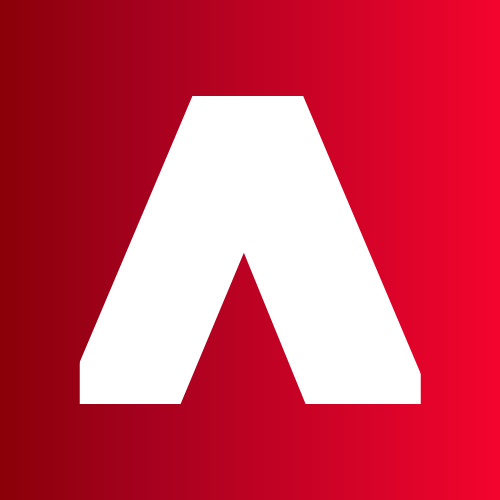
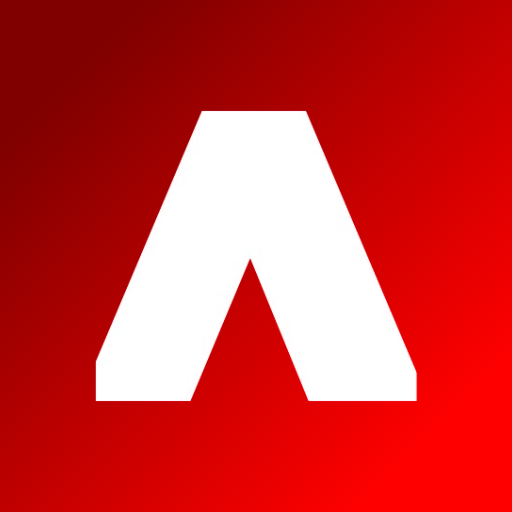
- melhorado maps em classes - melhorado ícone por plataforma

diff --git a/lib/data/model/show.dart b/lib/data/model/show.dart
@@ -71,14 +71,14 @@ class Show {
   // Transforma o status da série para um enum
   // com valores em português
   StatusEnum getStatusEnum() {
-    switch (status) {
-      case 'Running':
+    switch (status.toLowerCase()) {
+      case 'running':
         return StatusEnum.emExibicao;
-      case 'Ended':
+      case 'ended':
         return StatusEnum.finalizada;
-      case 'To Be Determined':
-        return StatusEnum.emExibicao;
-      case 'In Development':
+      case 'to be determined':
+        return StatusEnum.tba;
+      case 'in development':
         return StatusEnum.emDesenvolvimento;
       default:
         return StatusEnum.desconhecido;
@@ -91,6 +91,8 @@ class Show {
         return AppColors.green;
       case StatusEnum.finalizada:
         return AppColors.grey;
+      case StatusEnum.tba:
+        return AppColors.orange;
       case StatusEnum.emDesenvolvimento:
         return AppColors.orange;
       default:
@@ -103,6 +105,7 @@ enum StatusEnum {
   emExibicao('Em Exibição'),
   finalizada('Finalizada'),
   emDesenvolvimento('Em Desenvolvimento'),
+  tba('A ser anunciado'),
   desconhecido('Desconhecido');
 
   final String value;

diff --git a/lib/data/model/schedule.dart b/lib/data/model/schedule.dart
@@ -21,7 +21,7 @@ class Schedule {
 
   Map<String, dynamic> toJson() => _$ScheduleToJson(this);
 
-  // examplo: 21:00 | Segunda-feira, Terça-feira
+  // exemplo: 21:00 | Segunda-feira, Terça-feira
   @override
   String toString() {
     return time != '' && days != null
@@ -36,20 +36,20 @@ class Schedule {
   }
 
   String fromEnglish(String day) {
-    switch (day) {
-      case 'Monday':
+    switch (day.toLowerCase()) {
+      case 'monday':
         return DayOfWeek.monday.value;
-      case 'Tuesday':
+      case 'tuesday':
         return DayOfWeek.tuesday.value;
-      case 'Wednesday':
+      case 'wednesday':
         return DayOfWeek.wednesday.value;
-      case 'Thursday':
+      case 'thursday':
         return DayOfWeek.thursday.value;
-      case 'Friday':
+      case 'friday':
         return DayOfWeek.friday.value;
-      case 'Saturday':
+      case 'saturday':
         return DayOfWeek.saturday.value;
-      case 'Sunday':
+      case 'sunday':
         return DayOfWeek.sunday.value;
       default:
         return '';

diff --git a/lib/ui/pages/details/details_page.dart b/lib/ui/pages/details/details_page.dart
@@ -33,7 +33,7 @@ class DetailsPage extends StatelessWidget {
               loading: () => const Center(
                 child: CircularProgressIndicator(),
               ),
-              success: () => DetailsLayout(show: state.show!),
+              success: () => DetailsPresentation(show: state.show!),
               failure: () => const Center(
                 child: Text('Erro ao carregar informações'),
               ),
@@ -45,9 +45,9 @@ class DetailsPage extends StatelessWidget {
   }
 }
 
-class DetailsLayout extends StatelessWidget {
+class DetailsPresentation extends StatelessWidget {
   final Show show;
-  const DetailsLayout({super.key, required this.show});
+  const DetailsPresentation({super.key, required this.show});
 
   @override
   Widget build(BuildContext context) {

diff --git a/lib/ui/pages/home/home_page.dart b/lib/ui/pages/home/home_page.dart
@@ -31,7 +31,7 @@ class HomePage extends StatelessWidget {
                   AddShowButton(),
                   SizedBox(height: 20),
                   Expanded(
-                    child: HomeShowPresentation(),
+                    child: HomeShowLayout(),
                   ),
                 ],
               )),
@@ -41,8 +41,8 @@ class HomePage extends StatelessWidget {
   }
 }
 
-class HomeShowPresentation extends StatelessWidget {
-  const HomeShowPresentation({super.key});
+class HomeShowLayout extends StatelessWidget {
+  const HomeShowLayout({super.key});
 
   @override
   Widget build(BuildContext context) {

diff --git a/lib/ui/pages/search/search_page.dart b/lib/ui/pages/search/search_page.dart
@@ -27,7 +27,7 @@ class SearchPage extends StatelessWidget {
             child: Column(
               children: [
                 SearchField(),
-                Expanded(child: SearchShowPresentation()),
+                Expanded(child: SearchShowLayout()),
               ],
             ),
           ),
@@ -37,8 +37,8 @@ class SearchPage extends StatelessWidget {
   }
 }
 
-class SearchShowPresentation extends StatelessWidget {
-  const SearchShowPresentation({super.key});
+class SearchShowLayout extends StatelessWidget {
+  const SearchShowLayout({super.key});
 
   @override
   Widget build(BuildContext context) {

diff --git a/lib/ui/pages/details/bloc/details_bloc.dart b/lib/ui/pages/details/bloc/details_bloc.dart
@@ -28,8 +28,8 @@ class DetailsBloc extends Bloc<DetailsEvent, DetailsState> {
         show: show,
       ));
     } catch (e) {
-      debugPrint(e.toString());
       emit(state.copyWith(status: DetailsStatus.failure));
+      throw(e.toString());
     }
   }
 }

diff --git a/lib/ui/pages/search/bloc/search_bloc.dart b/lib/ui/pages/search/bloc/search_bloc.dart
@@ -47,8 +47,8 @@ class SearchBloc extends Bloc<SearchEvent, SearchState> {
         ));
       }
     } catch (e) {
-      debugPrint(e.toString());
       emit(state.copyWith(status: SearchStatus.failure));
+      throw(e.toString());
     }
   }
 

diff --git a/lib/ui/pages/home/bloc/home_bloc.dart b/lib/ui/pages/home/bloc/home_bloc.dart
@@ -40,8 +40,8 @@ class HomeBloc extends Bloc<HomeEvent, HomeState> {
         ));
       }
     } catch (e) {
-      debugPrint(e.toString());
       emit(state.copyWith(status: HomeStatus.failure));
+      throw(e.toString());
     }
   }
 
